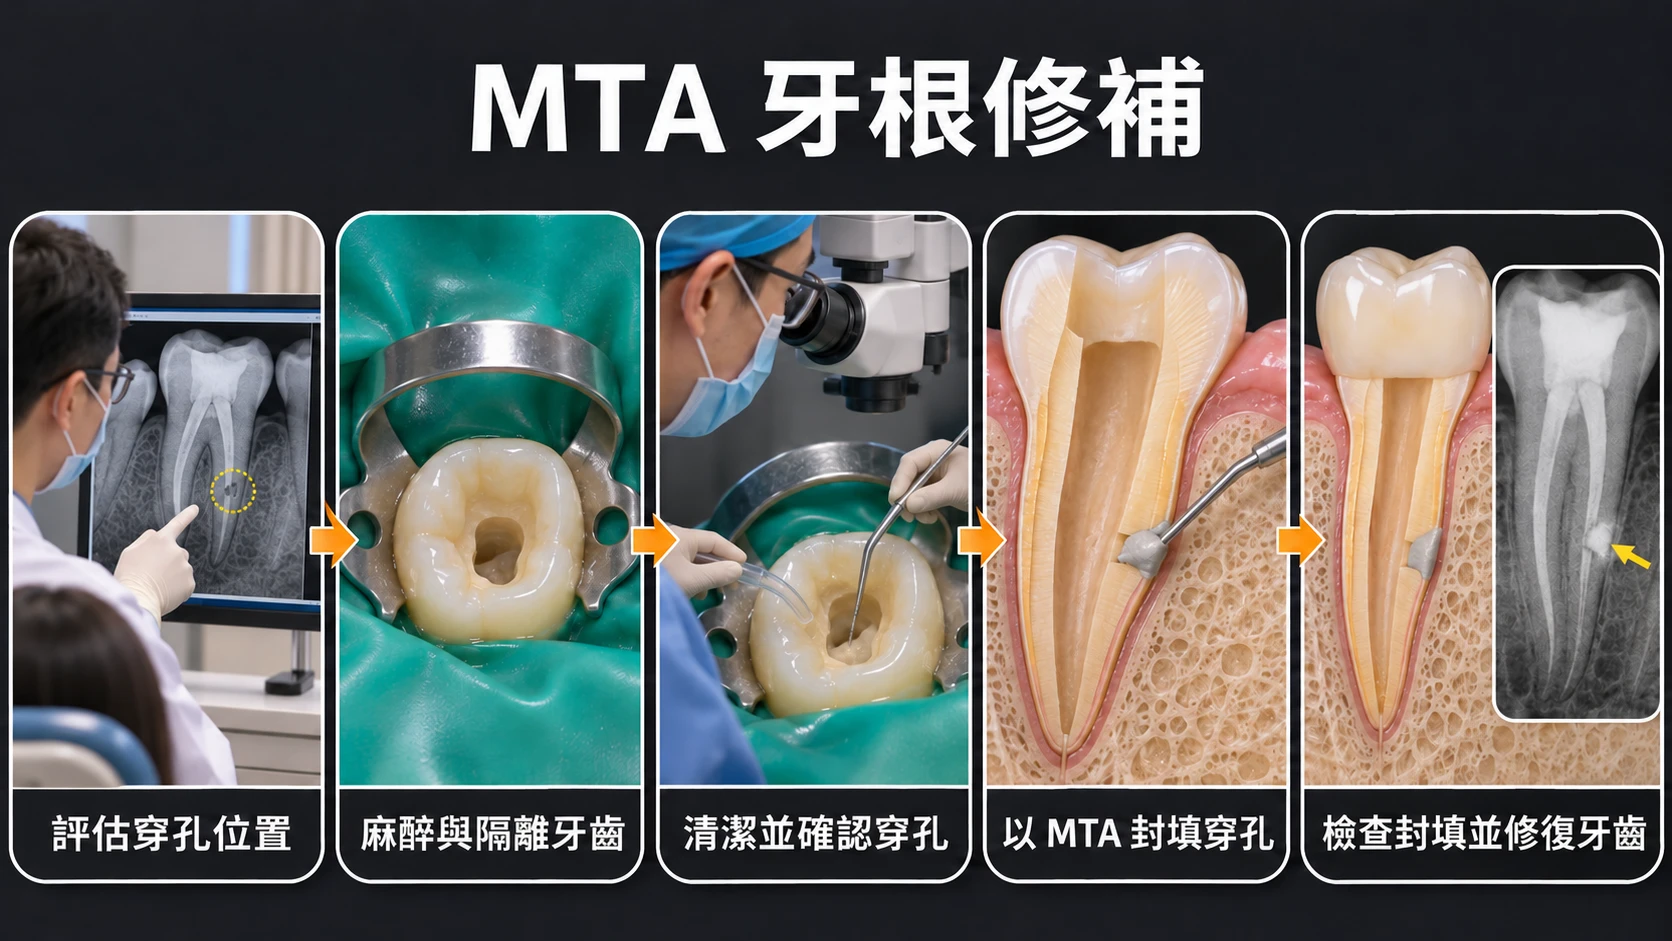
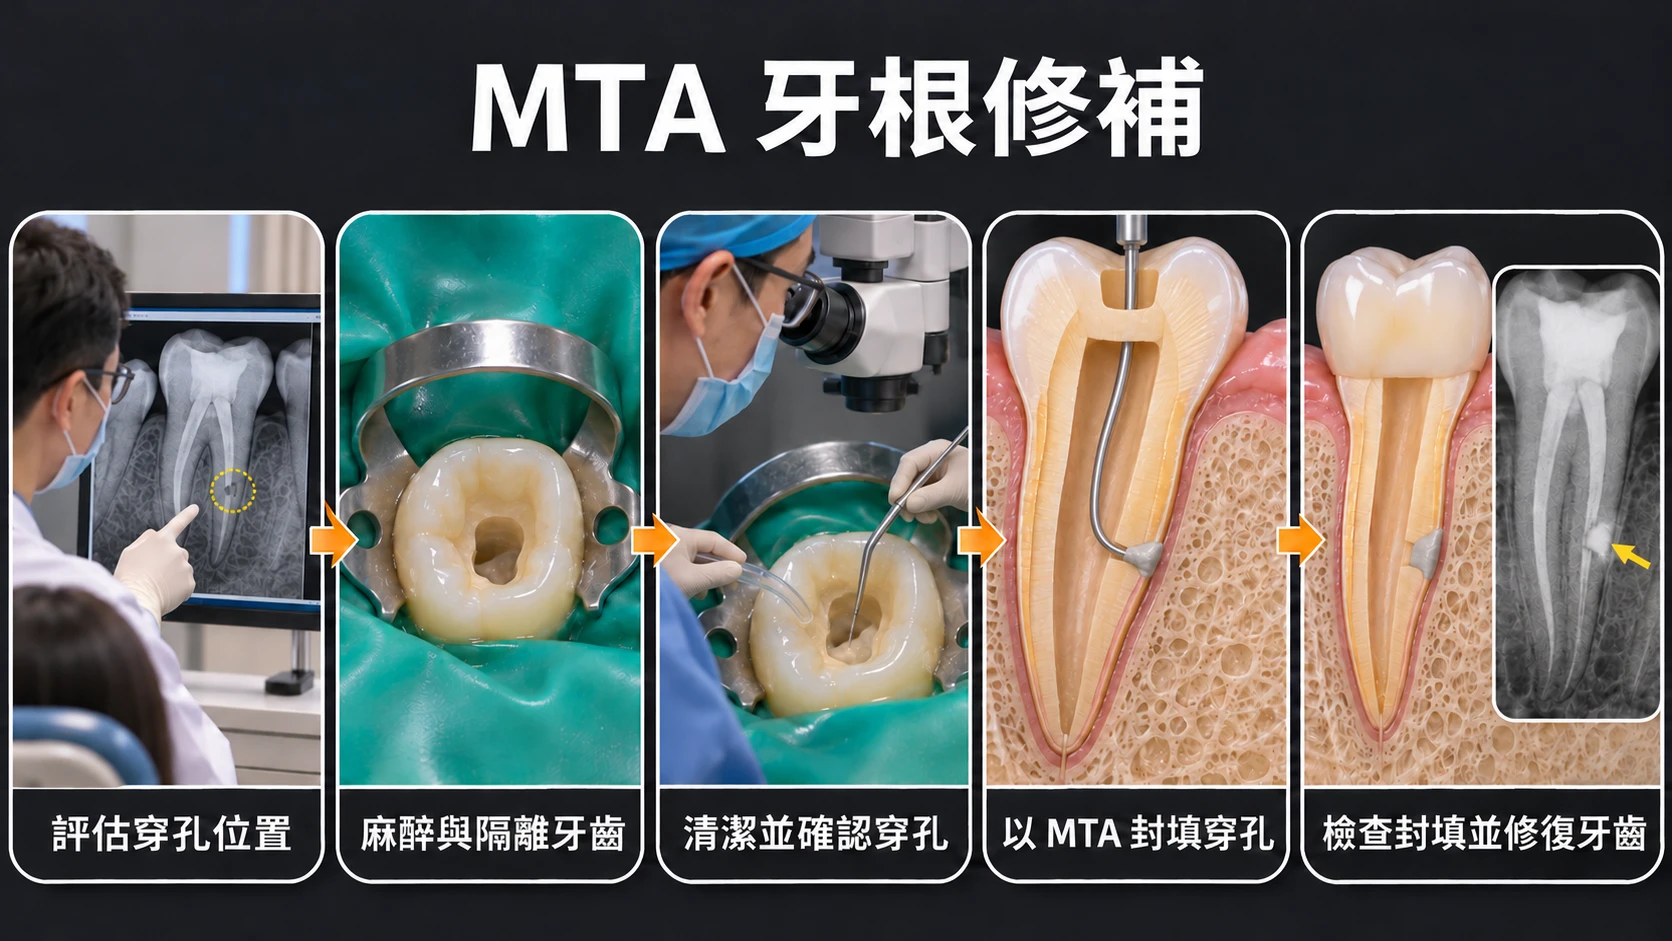
治療介紹：MTA 牙根修補換新版流程圖（第 4 格改為器械由根管內封填）

diff --git a/js/treatment-info.js b/js/treatment-info.js
@@ -329,7 +329,7 @@ const TREATMENT_INFO=[
  time:'約 2～4 次，視感染情況而定。',
  care:['同根管治療的注意事項','再治療難度較高，醫師會說明成功率；若無法改善，可能需要根尖手術或拔牙']},
 {id:'mta-repair',cat:'顯微治療',title:'MTA 牙根修補',items:['MTA牙根修補'],
- pics:{src:'media/mta-repair-source.webp',w:1672,h:941,rows:[
+ pics:{src:'media/mta-repair-source.webp?v=2',w:1672,h:941,rows:[
   [{x:14,y:216,w:298,h:567,cap:'評估穿孔位置'},{x:351,y:216,w:282,h:567,cap:'麻醉與隔離牙齒'},{x:676,y:216,w:286,h:567,cap:'清潔並確認穿孔'},{x:1004,y:216,w:274,h:567,cap:'以 MTA 封填穿孔'},{x:1336,y:216,w:322,h:567,cap:'檢查封填並修復牙齒'}]]},
  what:'牙根有穿孔、吸收或根尖未完全發育時，以生物相容性高的 MTA 材料修補、封閉，幫助周圍組織癒合，保留牙齒。',
  who:['牙根穿孔或牙根內、外吸收的人','根尖較開放、無法一般填充的牙齒'],
